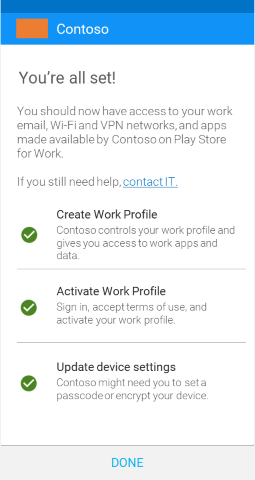
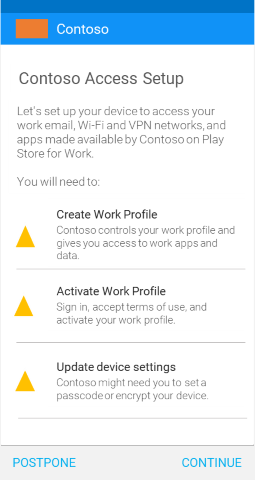
updating AfW steps

diff --git a/intune-user-help/create-a-work-profile-and-enroll-your-device-in-intune-android.md b/intune-user-help/create-a-work-profile-and-enroll-your-device-in-intune-android.md
@@ -31,7 +31,9 @@ ms.custom: intune-enduser
 
 # Create a work profile and enroll your device in Intune
 
-Enrolling your Android device gives you access to company email, apps, and other work data. As part of enrollment, you set up a work profile, which separates the personal data on your device from your work data. Your company support can manage only the work profile, which contains your work data. Your company support cannot manage the personal data on your device. Find out more about [what happens when you create a work profile](what-happens-when-you-create-a-work-profile-android.md).
+Enrolling your Android device gives you access to company email, apps, and other work data. As part of enrollment, you set up a work profile, which separates the personal data on your device from your work data.
+
+Your company support can manage only the work profile, which contains your work data. Your company support cannot manage the personal data on your device. Find out more about [what happens when you create a work profile](what-happens-when-you-create-a-work-profile-android.md).
 
 To create a work profile:
 
@@ -39,9 +41,9 @@ To create a work profile:
 
 	![Android Company Portal app Welcome screen](./media/and-enroll-0-welcome-screen.png)
 
-2. On the **Company Access Setup** screen, tap **BEGIN**.
+2. On the **Company Access Setup** screen, tap **CONTINUE**.
 
-	![Company Access Setup screen](./media/andr-afw-begin-company-access-setup.png)
+	![Company Access Setup screen](./media/android_cp_enroll_01_1709_new.png)
 
 3.  On the **Why create a work profile?** screen, read about what you'll be able to do, and then tap **CONTINUE**.
 
@@ -49,11 +51,11 @@ To create a work profile:
 
 4.  Review a list of what your company support can and can't see on your device, and tap **CONTINUE**.
 
-	![What your company support can and can't see on your device](./media/andr-afw-what-it-can-see-on-your-device.png)
+	![What your company support can and can't see on your device](./media/android_cp_enroll_02_after_1710.png)
 
-5.  On the **What comes next** screen, read about what's going to happen next, and then tap **CONTINUE**.
+5.  On the **What's next?** screen, read about what happens during enrollment, and then tap **ENROLL**.
 
-	![What comes next screen](./media/andr-afw-what-comes-next.png)
+	![What's next screen](./media/android_work_cp_enroll_03_after_1710.png)
 
 6. On the **Set up work profile** screen, tap **NEXT** to let the Company Portal app access the work profile.
 
@@ -77,13 +79,9 @@ To create a work profile:
 
 	You'll briefly see the message "Enrolling your device."
 
-11. When the **Company Access Setup** screen shows that everything has been set up correctly, tap **CONTINUE**.
+11. When the **You're all set!** screen shows that everything has been set up correctly, tap **DONE**.
 
-	![Company Access Setup shows work profile and enrollment are complete](./media/andr-afw-company-access-setup-green-checks.png)
-
-12. On the **Company Access Setup complete** screen, tap **DONE**. You may have to complete additional steps if your company support has added other requirements.
-
-	![Company Access Setup is complete](./media/andr-afw-company-access-setup-complete.png)
+	![Company Access Setup shows work profile and enrollment are complete](./media/android_work_cp_enroll_04_after_1710.png)
 
 	You can now get company apps from the Play Store for Work.
 

diff --git a/intune/whats-new-app-ui.md b/intune/whats-new-app-ui.md
@@ -36,7 +36,7 @@ We've improved the device setup workflow in the Company Portal app for Android. 
 |Before|After|
 |---|---|
 |![01](./media/android_cp_enroll_01_post_1709.png)|![01](./media/android_cp_enroll_01_1709_new.png)|
-|![01a](./media/android_cp_enroll_01_before_1710.png)| *Combined with first step* |
+|![01a](./media/android_cp_enroll_01_before_1710.png)| *Combined with previous step* |
 |![02](./media/android_cp_enroll_02_before_1710.png)|![02](./media/android_cp_enroll_02_after_1710.png)|
 |![03](./media/android_cp_enroll_03_before_1710.png)|![03](./media/android_cp_enroll_03_after_1710.png)|
 
@@ -45,7 +45,11 @@ Additional steps have been improved on Android for Work devices.
 |Before|After|
 |---|---|
 |![04](./media/android_work_cp_enroll_01_before_1710.png)|![04](./media/android_work_cp_enroll_01_after_1710.png)|
-|![05](./media/android_work_cp_enroll_01_after_1710.png)| *Combined with first step* |
+|![05](./media/android_work_cp_enroll_02_before_1710.png)| *Combined with previous step* |
+|![06](./media/android_work_cp_enroll_03_before_1710.png)|![06](./media/android_work_cp_enroll_03_after_1710.png)|
+|![07](./media/android_work_cp_enroll_04_before_1710.png)|![07](./media/android_work_cp_enroll_04_after_1710.png)|
+|![08](./media/android_work_cp_enroll_05_before_1710.png)| *Combined with previous step* |
+
 
 We've also updated the conditional access email activation screen.
 
